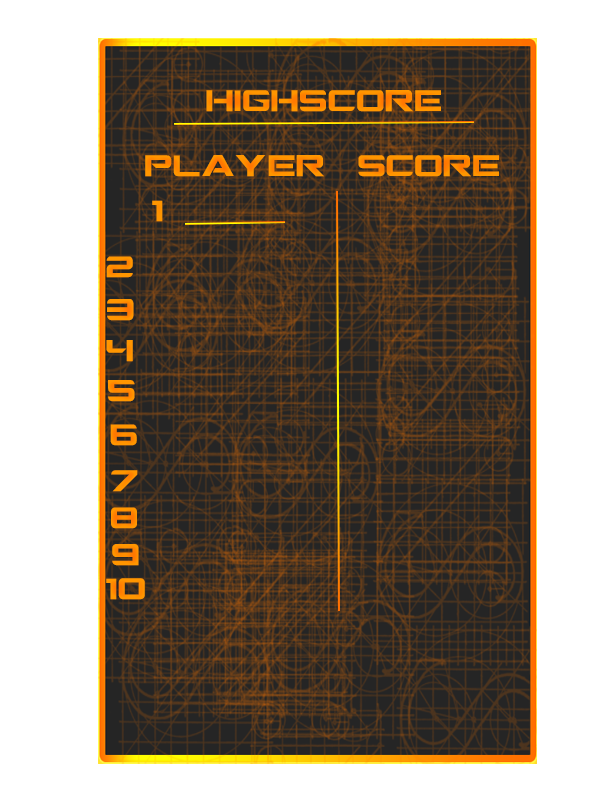
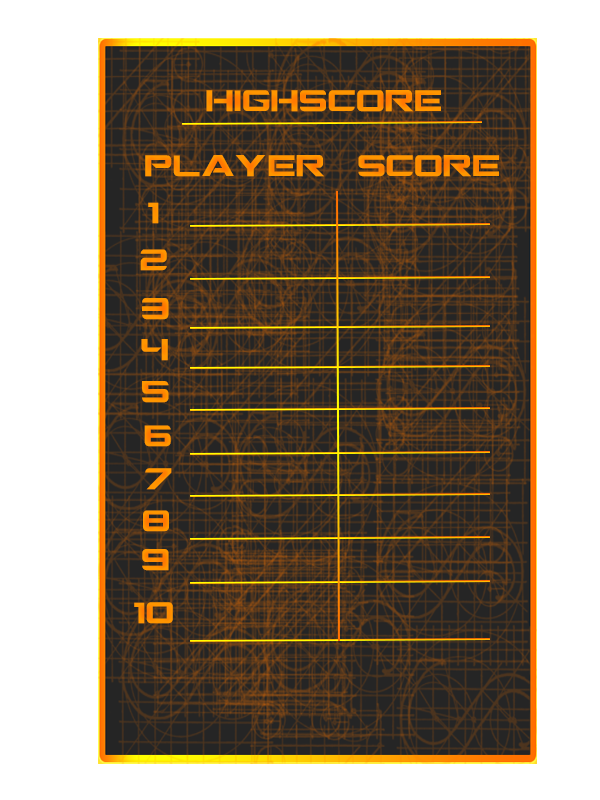
Adds hover button and changes input field

diff --git a/css/design.css b/css/design.css
@@ -78,6 +78,10 @@ button {
 	height:48px;
 }
 
+#start:hover, #endTutorial:hover {
+	background-image: url('../img/play_hover.png');
+}
+
 #sidebar #startTutorial{
 	background-image: url('../img/realtutorial.png');
 	background-repeat: no-repeat;

diff --git a/css/position.css b/css/position.css
@@ -31,6 +31,12 @@ svg {
 	position: relative;
 }
 
+#playerName {
+	font-size: 23px;
+	position: relative;
+	top: -11px;
+}
+
 #sidebar #gameTime {
 	position: absolute;
 	left: 103px;

diff --git a/js/game/scorelist.js b/js/game/scorelist.js
@@ -1,0 +1,3 @@
+GAME.scorelist = (function (window, jQuery) {
+
+})(window, jQuery, undefined);
